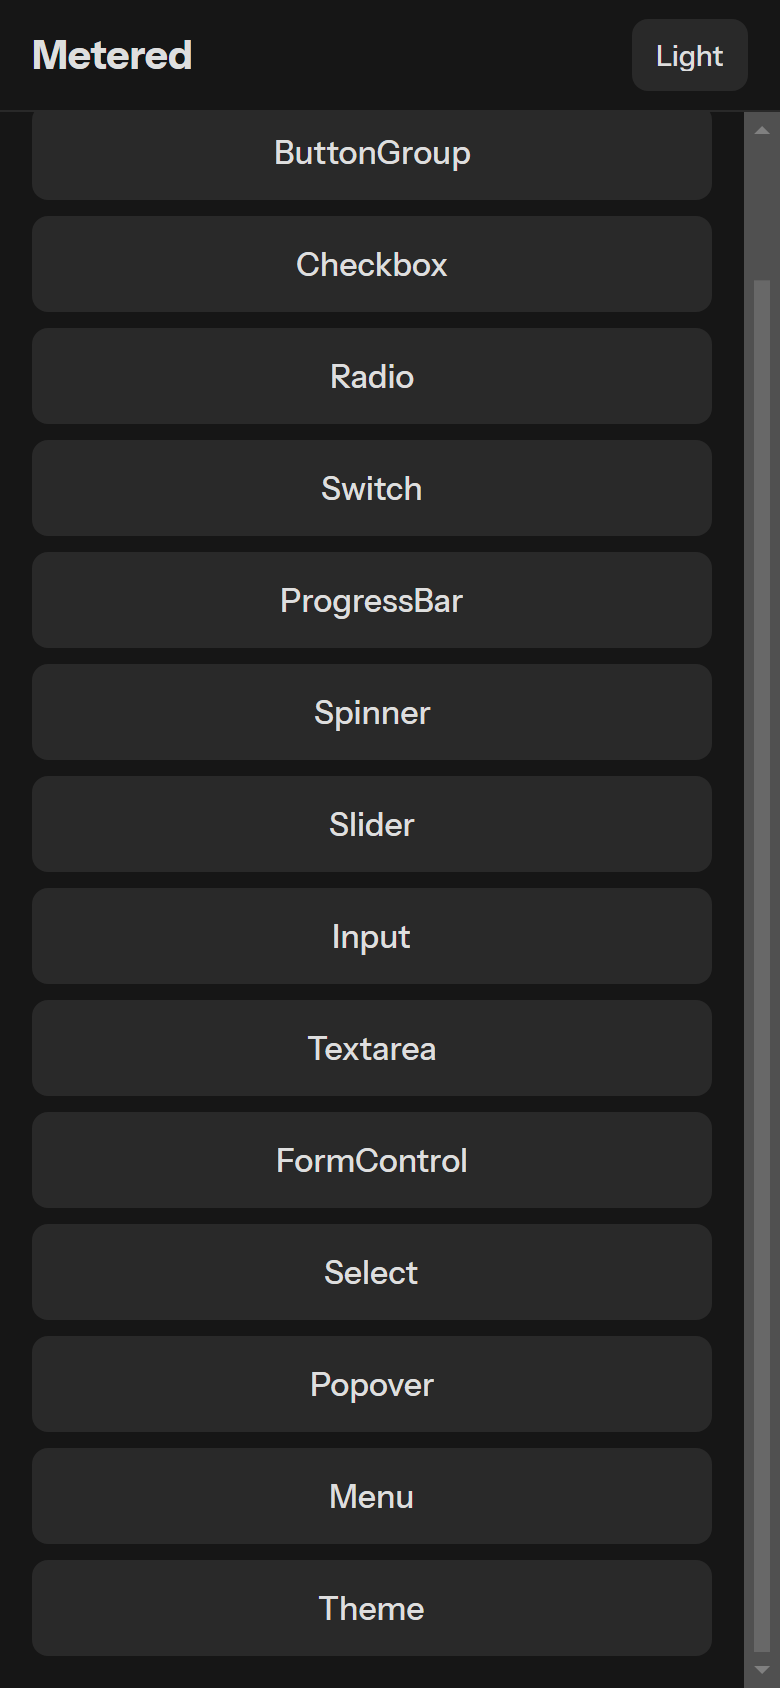
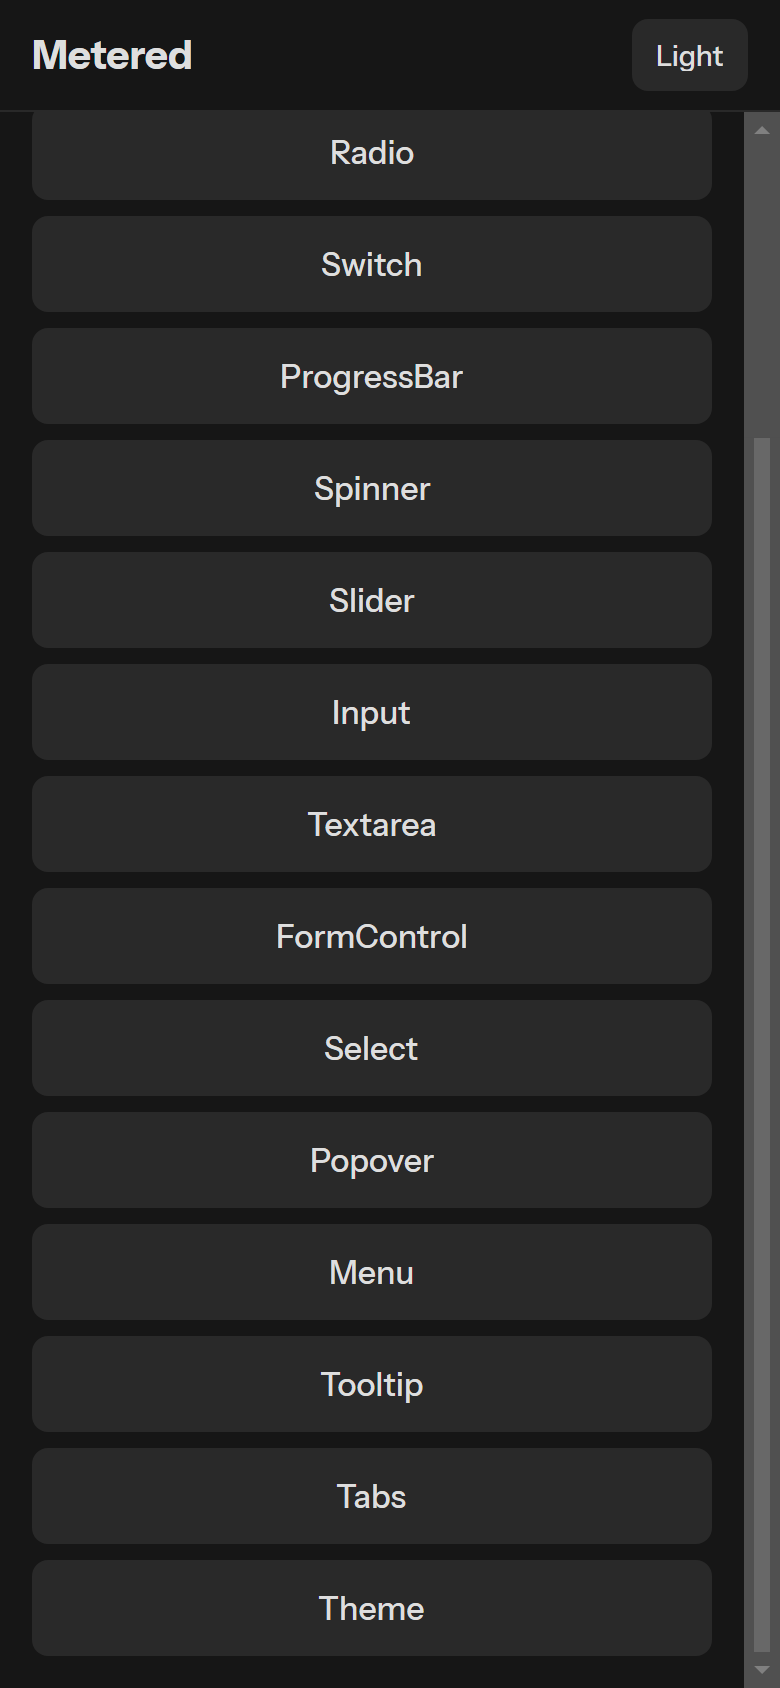
Roll-up after Tabs and Tooltip: the list redrawn, the tools' rows (#164)
* Roll-up after Tabs and Tooltip: the list redrawn, the tools' rows

- docs/preview: the list redrawn with Tooltip and Tabs (both screens). The
  dark Popover picture redrew a little differently since #163's Popover
  change; no difference to the eye.
- tools/README.md: tokens/tabs.js, tokens/tooltip.js, reference/tabs.js and
  reference/tooltip.js rows (Tooltip's from #163's Proposed for shared
  files), and both in gen.js's and radio.js's lists.
- README: sixteen controls.

* Roll-up: the dark Popover picture kept; PREVIEW's loading Button

Review pass: dark__popover-1.png differs between two gallery runs of one
build (filed 165), so the old picture is kept. PREVIEW.md's "Not shown"
said no page shows a Button loading; the gallery draws the Loading button
loading.

---------

diff --git a/tools/README.md b/tools/README.md
@@ -5,17 +5,19 @@ Developer tooling. Nothing here ships in a package. The tools that load `baseui`
 
 | Tool | What it does |
 |---|---|
-| `tokens/gen.js` | Writes `src/Metered.Themes/Tokens/*.g.axaml` from `baseui`'s LightTheme and DarkTheme (colours, sizing, borders, lighting, animation, typography, the Button's box-shadows from `tokens/button-shadows.js`, the Slider's thumb shadow from `tokens/slider.js`), the part themes `Controls/{Button,Checkbox,FormControl,Input,Menu,Popover,ProgressBar,Radio,Select,Slider,Spinner,Switch,Textarea}.Parts.g.axaml` (`tokens/button.js`, `checkbox.js`, `form-control.js`, `input.js`, `menu.js`, `popover.js`, `progress-bar.js`, `radio.js`, `select.js`, `slider.js`, `spinner.js`, `switch.js`, `textarea.js`), and `Theming/ThemeDerivation.g.cs` (`tokens/theme.js`). `--check` fails if a file would change. |
+| `tokens/gen.js` | Writes `src/Metered.Themes/Tokens/*.g.axaml` from `baseui`'s LightTheme and DarkTheme (colours, sizing, borders, lighting, animation, typography, the Button's box-shadows from `tokens/button-shadows.js`, the Slider's thumb shadow from `tokens/slider.js`), the part themes `Controls/{Button,Checkbox,FormControl,Input,Menu,Popover,ProgressBar,Radio,Select,Slider,Spinner,Switch,Tabs,Textarea,Tooltip}.Parts.g.axaml` (`tokens/button.js`, `checkbox.js`, `form-control.js`, `input.js`, `menu.js`, `popover.js`, `progress-bar.js`, `radio.js`, `select.js`, `slider.js`, `spinner.js`, `switch.js`, `tabs.js`, `textarea.js`, `tooltip.js`), and `Theming/ThemeDerivation.g.cs` (`tokens/theme.js`). `--check` fails if a file would change. |
 | `tokens/theme.js` | What Base Web's `createTheme` and `createDarkTheme` derive, read by calling them (and the Button's style function) on sentinel values: which colours follow which foundation colour, what each Button shadow is made of, which paths are one object. Tables of names for `Metered.Themes.Theme` (ADR 0002). Run by `gen.js`. |
 | `tokens/checkbox.js` | The Checkbox's part themes (`Controls/Checkbox.Parts.g.axaml`), from checkbox-v2's style functions, by `radio.js`'s writer as the fewest layered styles. Run by `gen.js`. |
-| `tokens/radio.js` | The Radio's part themes (`Controls/Radio.Parts.g.axaml`), from radio-v2's style functions evaluated on a theme whose colours are their names, checked for every combination of states. Also the v2 controls' shared theme writer (with its `layered` mode) and conversions, which every other part-theme generator uses (`checkbox.js`, `form-control.js`, `input.js`, `menu.js`, `popover.js`, `progress-bar.js`, `select.js`, `slider.js`, `spinner.js`, `switch.js`, `textarea.js`). Run by `gen.js`. |
+| `tokens/radio.js` | The Radio's part themes (`Controls/Radio.Parts.g.axaml`), from radio-v2's style functions evaluated on a theme whose colours are their names, checked for every combination of states. Also the v2 controls' shared theme writer (with its `layered` mode) and conversions, which every other part-theme generator uses (`checkbox.js`, `form-control.js`, `input.js`, `menu.js`, `popover.js`, `progress-bar.js`, `select.js`, `slider.js`, `spinner.js`, `switch.js`, `tabs.js`, `textarea.js`, `tooltip.js`). Run by `gen.js`. |
 | `tokens/slider.js` | The Slider's part themes (`Controls/Slider.Parts.g.axaml`), from Base Web's slider's style functions, by `radio.js`'s writer as the fewest layered styles; react-range's inline thumb cursor; and the thumb's literal shadow as a token (`Tokens/SliderBoxShadows.g.axaml`). Run by `gen.js`. |
 | `tokens/input.js` | The Input's part themes (`Controls/Input.Parts.g.axaml`), from Base Web's input's style functions, by `radio.js`'s writer as the fewest layered styles; the icons' sizes from Base Web's Input rendered and their paths from its icons rendered (`delete-alt`, `show`, `hide`). Its `parts` and `themes` serve Textarea's; its `declare`, `padding` and `INHERITED` serve FormControl's. Run by `gen.js`. |
 | `tokens/textarea.js` | The Textarea's part themes (`Controls/Textarea.Parts.g.axaml`), from Base Web's textarea's styled components (`StyledTextAreaRoot`, `StyledTextareaContainer`, `StyledTextarea`) and BaseInput's clear icon, with `input.js`'s parts and themes for the textarea's states. Run by `gen.js`. |
 | `tokens/form-control.js` | The FormControl's part themes (`Controls/FormControl.Parts.g.axaml`), from Base Web's form control's style functions (`CaptionMessage` a style object), by `radio.js`'s writer as the fewest layered styles; the caption's two icons (`alert`, `check`) at the size Base Web's FormControl renders them. Run by `gen.js`. |
 | `tokens/popover.js` | The Popover's part themes (`Controls/Popover.Parts.g.axaml`), from Base Web's popover's style functions evaluated with its colours, radii and shadows as their token names, by `radio.js`'s writer as the fewest layered styles; the body's entrance (0.1 s while `:is-open:is-animating`), a hover popover's first 0.1 s of not taking the pointer (`IsHitTestVisible`), and `Popover.StyledPadding`. Run by `gen.js`. |
+| `tokens/tooltip.js` | The Tooltip's part themes (`Controls/Tooltip.Parts.g.axaml`), from Base Web's tooltip's styled components (the popover's style functions with the tooltip's values over them), with `popover.js`'s helpers and `radio.js`'s writer as the fewest layered styles: the body's fade of its opacity alone (no transform: its `getEndPosition`), a hover body's first 0.1 s, and Inner's padding, `font150` and wrapped text. Run by `gen.js`. |
 | `tokens/menu.js` | The Menu's part themes (`Controls/Menu.Parts.g.axaml`), from Base Web's menu's style functions evaluated with its colours, radii, shadows and border colours as their token names, by `radio.js`'s writer as the fewest layered styles: the list, an option by its size, highlight, the menu's focus and disabled, its link, a header, a divider, the empty state and the profile option's seven parts; an option's colour and background transition once loaded, and a link's underline. Run by `gen.js`. |
 | `tokens/select.js` | The Select's part themes and its tag's (`Controls/Select.Parts.g.axaml`: `Select.Styled<Part>`, `SelectTag.Styled<Part>`), from Base Web's select and tag style functions evaluated on a theme whose colours, radii and shadows are their own names, for every combination of the states select-component.js gives each part, by `radio.js`'s writer as the fewest state styles: the control's box by state, the value's line, the icons (Base Web's own, at the sizes it gives them), an option's label in the dropdown, and the tag as multi-value.js gives it. The dropdown's other parts are the Menu's. Run by `gen.js`. |
+| `tokens/tabs.js` | Tabs' part themes (`Controls/Tabs.Parts.g.axaml`), from Base Web's `tabs-motion` (the current tabs: `tabs` is deprecated in its favour), its style functions evaluated with the colours as their token names for every combination of the states they read, by `radio.js`'s writer as the fewest layered styles; a tab's `:hover`, `:disabled` and `:disabled:hover` resolved as a browser's cascade does; the highlight's Base Web defaults (the Tabs sets the active tab's length and distance) and the artwork's size as `Tabs.ArtworkSize`. Run by `gen.js`. |
 | `tokens/spinner.js` | The Spinner's part theme (`Controls/Spinner.Parts.g.axaml`), from Base Web's spinner's style function on a theme whose colours are their names: a state style for each size, sizing token, length and dropped value of `$size` and `$borderWidth`, and the turn, unless `:metered-still`. Run by `gen.js`. |
 | `tokens/switch.js` | The Switch's part themes (`Controls/Switch.Parts.g.axaml`), from Base Web's switch's style functions, by `radio.js`'s writer. Run by `gen.js`. |
 | `tokens/progress-bar.js` | The ProgressBar's part themes (`Controls/ProgressBar.Parts.g.axaml`), from Base Web's progress bar's style functions, by `radio.js`'s layered writer, with its motion (the fill's transition, the endless animations, off while `:metered-still`). Run by `gen.js`. |
@@ -29,8 +31,10 @@ Developer tooling. Nothing here ships in a package. The tools that load `baseui`
 | `reference/textarea.js` | For `cases.js`: `textarea.oracle.json`, the textarea's oracle: Base Web's own Textarea rendered (react-dom/server) with every part recorded, each part's style function run with the props it was given, on the light and dark themes. |
 | `reference/form-control.js` | For `cases.js`: `form-control.oracle.json`, the form control's oracle: Base Web's own FormControl rendered (react-dom/server) with every part recorded, round a child that records what `cloneElement` gives it with the defaultProps of Input, Textarea, Checkbox or RadioGroup; each part's style function run with the props it was given, on the light and dark themes; and the block flow's positions from its margins and lines. |
 | `reference/popover.js` | For `cases.js`: `popover.oracle.json`, the popover's oracle: each part's colours on the light and dark themes; the body's margin, entrance start and motion and the arrow's position by placement (its style functions checked against utils.js's helpers); its constants, default props and `StyledPadding`; and popper.js's placements, first and next update, from `tether.g.json`. |
+| `reference/tooltip.js` | For `cases.js`: `tooltip.oracle.json`, the tooltip's oracle: each part's colours, radius, shadow, padding and font on the light and dark themes and on a theme with its own `radius300`; the body's margin and transform and its motion by state; and its default props as React resolves them for StatefulTooltip and Tooltip. Where popper.js puts it is the popover's (`tether.g.json`). |
 | `reference/menu.js` | For `cases.js`: `menu.oracle.json`, the menu's oracle: Base Web's StatefulMenu rendered for each case (its parts in order, their props and their style functions' declarations); its own MenuStatefulContainer driven step by step in Node as a browser and React would drive it (DOM focus, batched state, componentDidUpdate, type-ahead's timer faked); and its own scrollItemIntoView on the geometry its styles give. |
 | `reference/select.js` | For `cases.js`: `select.oracle.json`, the select's oracle: Base Web's own Select rendered for each case, every part's props recorded and its style function evaluated, the dropdown and a multi value's tags too, on the real light and dark themes; its Select class driven step by step in Node as React and a browser would drive it (state, focus, the document's click listener), the value kept as StatefulSelect keeps it. |
+| `reference/tabs.js` | For `cases.js`: `tabs.oracle.json`, the tabs' oracle: Base Web's own Tabs and StatefulTabs (`tabs-motion`) rendered (react-dom/server) with every part recorded in order (which render, their text, ARIA, tab stops, disabled and hidden states, a panel's content); the keys' and clicks' handlers tabs.js gives each tab, driven step by step in Node on stand-ins for its buttons; each part's style function run with the props it was given, on the light and dark themes. |
 | `reference/spinner.js` | For `cases.js`: `spinner.oracle.json`, the spinner's oracle. |
 | `reference/switch.js` | For `cases.js`: `switch.oracle.json`, the switch's oracle. |
 | `reference/progress-bar.js` | For `cases.js`: `progress-bar.oracle.json`, the progress bar's oracle: Base Web's own `ProgressBar` rendered (react-dom's server renderer) with every part overridden by a recorder, each part's style function evaluated with the props it was given. |

diff --git a/PREVIEW.md b/PREVIEW.md
@@ -286,7 +286,7 @@ Buttons under the app's theme, then the same in a subtree given its own by `Them
 ## Not shown
 
 The pages at rest only. Hover, press and the keyboard's focus ring are in the Button's frames
-([`docs/controls/Button/`](docs/controls/Button/)); the Button's loading spinner and the Spinner's rings turn (held still at 0° for the pictures by `:metered-still`; no page shows a Button loading at rest), and the background's 200 ms
+([`docs/controls/Button/`](docs/controls/Button/)); the Button's loading spinner and the Spinner's rings turn (held still at 0° for the pictures by `:metered-still`; the Button page's `Loading` button is drawn loading), and the background's 200 ms
 transition moves, which still pictures can't show. The shell's Debug footer (what a page cost to open,
 [`docs/performance/README.md`](docs/performance/README.md)) is turned off for the pictures, as its times change on
 every run. The scroll bar is Avalonia's Simple theme, which the sample puts under Metered's for the controls Metered

diff --git a/README.md b/README.md
@@ -12,7 +12,7 @@ by Uber or the AvaloniaUI team.
 
 The sample's pages, drawn headless. More in [PREVIEW.md](PREVIEW.md).
 
-> **Status: early, not yet published.** Fourteen controls, from Button to Select (see [PREVIEW.md](PREVIEW.md)), on the tokens, the
+> **Status: early, not yet published.** Sixteen controls, from Button to Tabs (see [PREVIEW.md](PREVIEW.md)), on the tokens, the
 > parts and states, Base Web's overrides API and its theme builder. The inventory of controls is
 > next; see [`docs/ROADMAP.md`](docs/ROADMAP.md).
 
